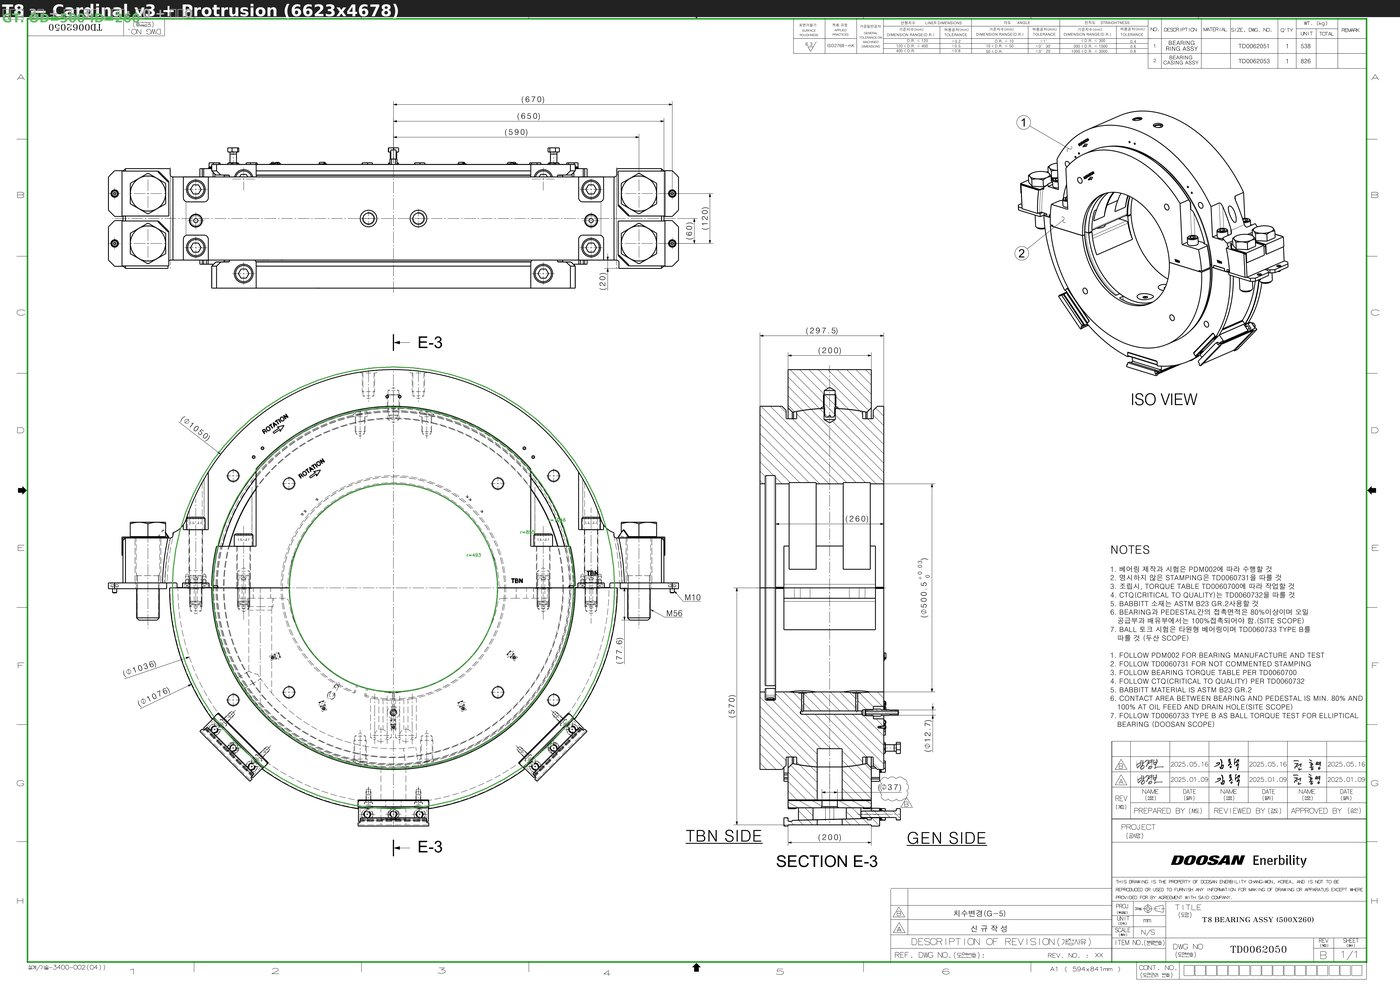
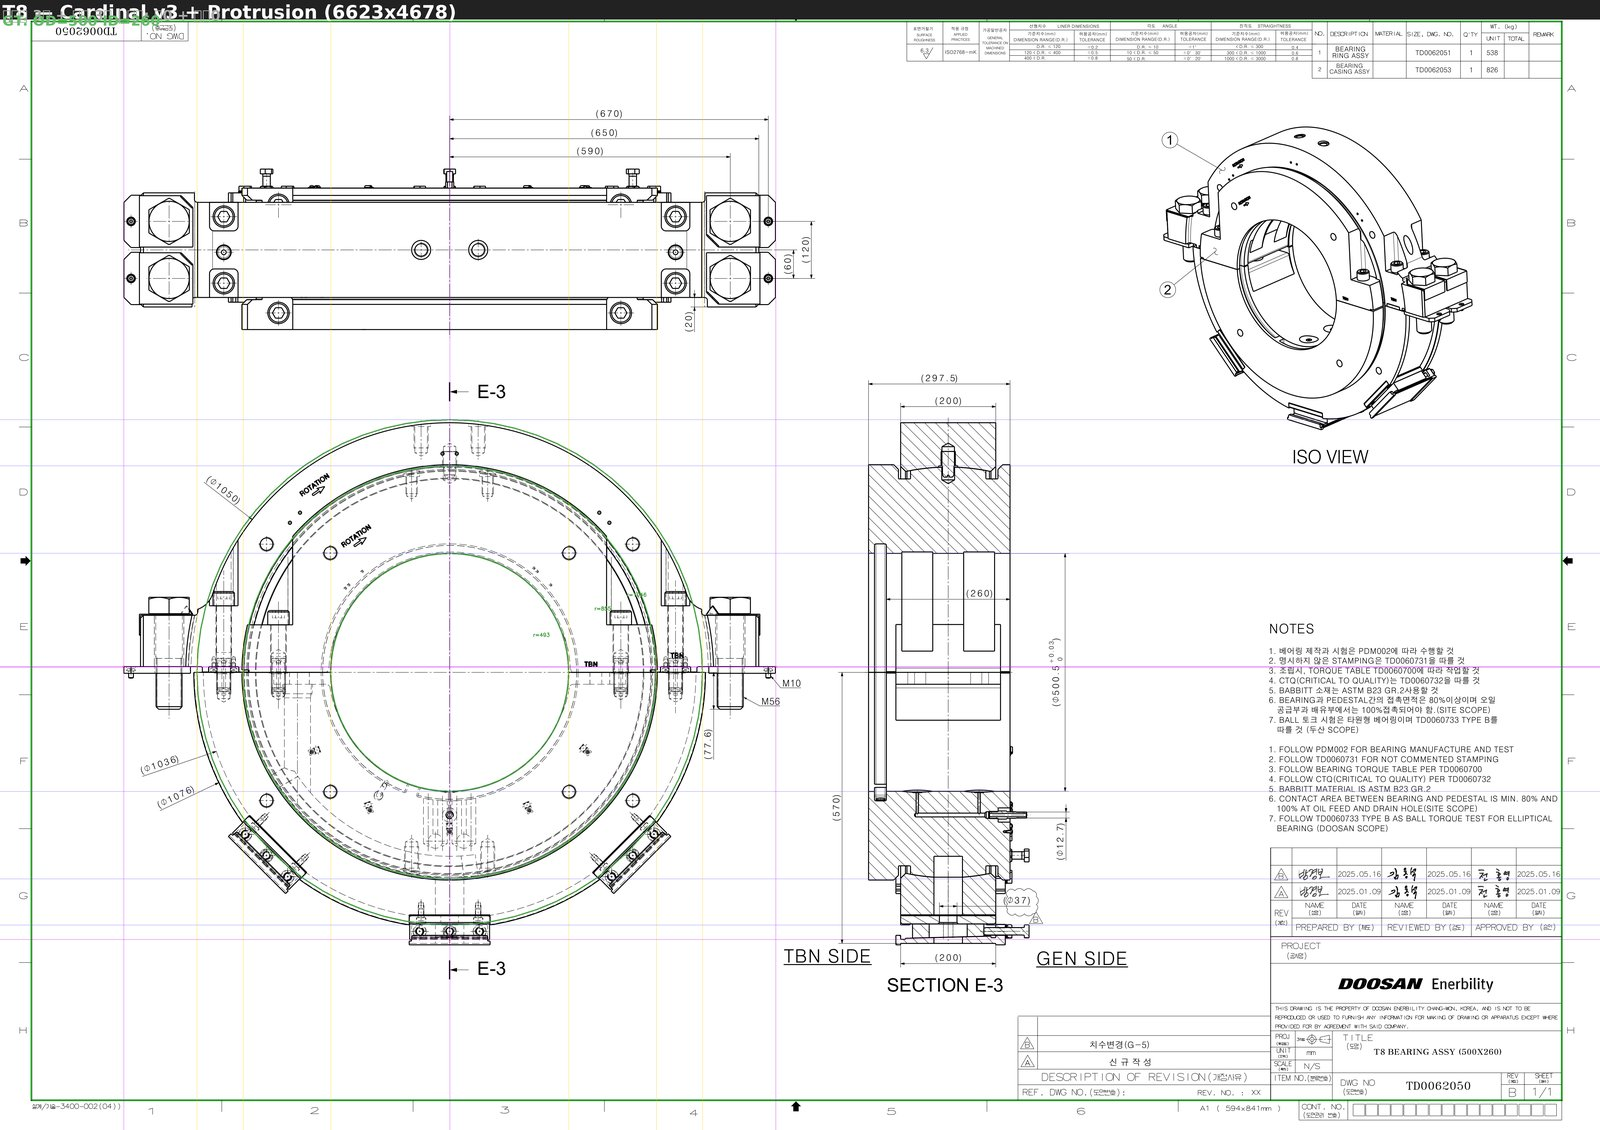
fix: unify fullpage projection endpoints

diff --git a/blueprint-ai-bom/scripts/s08_cardinal_v3_fullpage.py b/blueprint-ai-bom/scripts/s08_cardinal_v3_fullpage.py
@@ -215,8 +215,7 @@ def collect_projection_data(gray):
     }
 
 
-def build_circle_lines(circles_full, arrows=None, hit_tolerance=15):
-    arrows = arrows or []
+def build_circle_lines(circles_full):
     dir_colors = {
         "N": (255, 100, 100),
         "S": (255, 100, 100),
@@ -233,32 +232,44 @@ def build_circle_lines(circles_full, arrows=None, hit_tolerance=15):
         ]:
             px = int(round(cx + r * ddx))
             py = int(round(cy + r * ddy))
-            hits = []
-            for arrow in arrows:
-                ax, ay = arrow["x"], arrow["y"]
-                if axis == "h" and abs(ay - py) <= hit_tolerance:
-                    if np.sqrt((ax - cx) ** 2 + (ay - cy) ** 2) < r * 0.9:
-                        continue
-                    hits.append((int(ax), int(ay)))
-                elif axis == "v" and abs(ax - px) <= hit_tolerance:
-                    if np.sqrt((ax - cx) ** 2 + (ay - cy) ** 2) < r * 0.9:
-                        continue
-                    hits.append((int(ax), int(ay)))
             lines.append(
                 {
                     "px": px,
                     "py": py,
                     "axis": axis,
                     "color": dir_colors[dir_name],
-                    "hits": hits,
                     "dir_name": dir_name,
+                    "cx": float(cx),
+                    "cy": float(cy),
+                    "r": float(r),
                 }
             )
     return lines
 
 
-def build_protrusion_lines(peaks_full, center_full, outer_r, arrows=None, hit_tolerance=15):
+def attach_circle_hits(circle_lines, arrows=None, hit_tolerance=15):
     arrows = arrows or []
+    annotated = []
+    for line in circle_lines:
+        hits = []
+        cx = line["cx"]
+        cy = line["cy"]
+        r = line["r"]
+        for arrow in arrows:
+            ax, ay = arrow["x"], arrow["y"]
+            if line["axis"] == "h" and abs(ay - line["py"]) <= hit_tolerance:
+                if np.sqrt((ax - cx) ** 2 + (ay - cy) ** 2) < r * 0.9:
+                    continue
+                hits.append((int(ax), int(ay)))
+            elif line["axis"] == "v" and abs(ax - line["px"]) <= hit_tolerance:
+                if np.sqrt((ax - cx) ** 2 + (ay - cy) ** 2) < r * 0.9:
+                    continue
+                hits.append((int(ax), int(ay)))
+        annotated.append({**line, "hits": hits})
+    return annotated
+
+
+def build_protrusion_lines(peaks_full, center_full, outer_r):
     lines = []
     if not peaks_full or center_full is None or outer_r is None:
         return lines
@@ -266,26 +277,46 @@ def build_protrusion_lines(peaks_full, center_full, outer_r, arrows=None, hit_to
     ccx, ccy = center_full
     for angle, _, ppx, ppy in peaks_full:
         for axis in ["h", "v"]:
-            hits = []
-            for arrow in arrows:
-                ax, ay = arrow["x"], arrow["y"]
-                if axis == "h" and abs(ay - ppy) <= hit_tolerance:
-                    if np.sqrt((ax - ccx) ** 2 + (ay - ccy) ** 2) > outer_r * 0.9:
-                        hits.append((int(ax), int(ay)))
-                elif axis == "v" and abs(ax - ppx) <= hit_tolerance:
-                    if np.sqrt((ax - ccx) ** 2 + (ay - ccy) ** 2) > outer_r * 0.9:
-                        hits.append((int(ax), int(ay)))
             lines.append(
                 {
                     "px": int(ppx),
                     "py": int(ppy),
                     "axis": axis,
                     "color": (255, 0, 200),
-                    "hits": hits,
                     "angle": angle,
+                    "ccx": float(ccx),
+                    "ccy": float(ccy),
+                    "outer_r": float(outer_r),
                 }
             )
     return lines
+
+
+def attach_protrusion_hits(protrusion_lines, arrows=None, hit_tolerance=15):
+    arrows = arrows or []
+    annotated = []
+    for line in protrusion_lines:
+        hits = []
+        ccx = line["ccx"]
+        ccy = line["ccy"]
+        outer_r = line["outer_r"]
+        for arrow in arrows:
+            ax, ay = arrow["x"], arrow["y"]
+            if line["axis"] == "h" and abs(ay - line["py"]) <= hit_tolerance:
+                if np.sqrt((ax - ccx) ** 2 + (ay - ccy) ** 2) > outer_r * 0.9:
+                    hits.append((int(ax), int(ay)))
+            elif line["axis"] == "v" and abs(ax - line["px"]) <= hit_tolerance:
+                if np.sqrt((ax - ccx) ** 2 + (ay - ccy) ** 2) > outer_r * 0.9:
+                    hits.append((int(ax), int(ay)))
+        annotated.append({**line, "hits": hits})
+    return annotated
+
+
+def draw_projection_axis(canvas, line, full_w, full_h, thickness):
+    if line["axis"] == "h":
+        cv2.line(canvas, (0, line["py"]), (full_w, line["py"]), line["color"], thickness)
+    else:
+        cv2.line(canvas, (line["px"], 0), (line["px"], full_h), line["color"], thickness)
 
 
 def draw_fullpage_projection(img, circles_full, circle_lines, protrusion_lines, gt, name):
@@ -296,16 +327,19 @@ def draw_fullpage_projection(img, circles_full, circle_lines, protrusion_lines, 
         cv2.circle(canvas, (int(cx), int(cy)), int(r), (67, 160, 71), 3)
 
     circle_hit = 0
-    circle_lines_drawn = 0
+    circle_hit_lines = 0
     for line in circle_lines:
+        draw_projection_axis(canvas, line, full_w, full_h, 2 if line["hits"] else 1)
+        cv2.circle(
+            canvas,
+            (line["px"], line["py"]),
+            8,
+            (255, 255, 255),
+            2 if line["hits"] else 1,
+        )
         if not line["hits"]:
             continue
-        circle_lines_drawn += 1
-        if line["axis"] == "h":
-            cv2.line(canvas, (0, line["py"]), (full_w, line["py"]), line["color"], 2)
-        else:
-            cv2.line(canvas, (line["px"], 0), (line["px"], full_h), line["color"], 2)
-        cv2.circle(canvas, (line["px"], line["py"]), 8, (255, 255, 255), 2)
+        circle_hit_lines += 1
         for hx, hy in line["hits"]:
             cv2.drawMarker(
                 canvas,
@@ -318,23 +352,20 @@ def draw_fullpage_projection(img, circles_full, circle_lines, protrusion_lines, 
             circle_hit += 1
 
     protrusion_hit = 0
-    protrusion_lines_drawn = 0
+    protrusion_hit_lines = 0
     for line in protrusion_lines:
-        if not line["hits"]:
-            continue
-        protrusion_lines_drawn += 1
-        if line["axis"] == "h":
-            cv2.line(canvas, (0, line["py"]), (full_w, line["py"]), line["color"], 2)
-        else:
-            cv2.line(canvas, (line["px"], 0), (line["px"], full_h), line["color"], 2)
+        draw_projection_axis(canvas, line, full_w, full_h, 2 if line["hits"] else 1)
         cv2.drawMarker(
             canvas,
             (line["px"], line["py"]),
             (0, 0, 255),
             cv2.MARKER_DIAMOND,
             12,
-            3,
+            3 if line["hits"] else 1,
         )
+        if not line["hits"]:
+            continue
+        protrusion_hit_lines += 1
         for hx, hy in line["hits"]:
             cv2.drawMarker(
                 canvas,
@@ -347,10 +378,10 @@ def draw_fullpage_projection(img, circles_full, circle_lines, protrusion_lines, 
             protrusion_hit += 1
 
     total_lines = len(circle_lines) + len(protrusion_lines)
-    active_lines = circle_lines_drawn + protrusion_lines_drawn
+    active_lines = circle_hit_lines + protrusion_hit_lines
     print(f"  전체 직선: {total_lines}개 → 히트 있는 직선: {active_lines}개")
-    print(f"  동심원 히트: {circle_hit}개 ({circle_lines_drawn}개 직선)")
-    print(f"  돌출부 히트: {protrusion_hit}개 ({protrusion_lines_drawn}개 직선)")
+    print(f"  동심원 히트: {circle_hit}개 ({circle_hit_lines}개 직선)")
+    print(f"  돌출부 히트: {protrusion_hit}개 ({protrusion_hit_lines}개 직선)")
 
     for cx, cy, r in circles_full:
         cv2.putText(
@@ -469,30 +500,30 @@ def run():
         if not circles_full:
             continue
 
+        # Shared geometry: lines-only/fullpage 모두 동일한 끝점 집합을 사용한다.
+        base_circle_lines = build_circle_lines(circles_full)
+        base_protrusion_lines = build_protrusion_lines(peaks_full, center_full, outer_r)
+
         if args.lines_only:
-            circle_lines = build_circle_lines(circles_full)
-            protrusion_lines = build_protrusion_lines(peaks_full, center_full, outer_r)
             print(
-                f"  lines-only 산출물: 동심원 직선 {len(circle_lines)}개 + "
-                f"돌출 직선 {len(protrusion_lines)}개"
+                f"  lines-only 산출물: 동심원 직선 {len(base_circle_lines)}개 + "
+                f"돌출 직선 {len(base_protrusion_lines)}개"
             )
             pil = draw_projection_lines_only(
                 img,
                 circles_full,
-                circle_lines,
+                base_circle_lines,
                 peaks_full,
-                protrusion_lines,
+                base_protrusion_lines,
             )
             save_pil(pil, f"{name}_projection_lines_only.jpg", max_w=1600)
             continue
 
         arrows = detect_arrowheads(gray)
         print(f"  화살촉 후보: {len(arrows)}개")
-        circle_lines = build_circle_lines(circles_full, arrows)
-        protrusion_lines = build_protrusion_lines(
-            peaks_full,
-            center_full,
-            outer_r,
+        circle_lines = attach_circle_hits(base_circle_lines, arrows)
+        protrusion_lines = attach_protrusion_hits(
+            base_protrusion_lines,
             arrows,
         )
 
@@ -504,7 +535,7 @@ def run():
             gt,
             name,
         )
-        save_pil(pil, f"{name}_cardinal_v3_full.jpg")
+        save_pil(pil, f"{name}_cardinal_v3_full.jpg", max_w=1600)
 
     print(f"\n완료: {OUT_DIR}")
 
